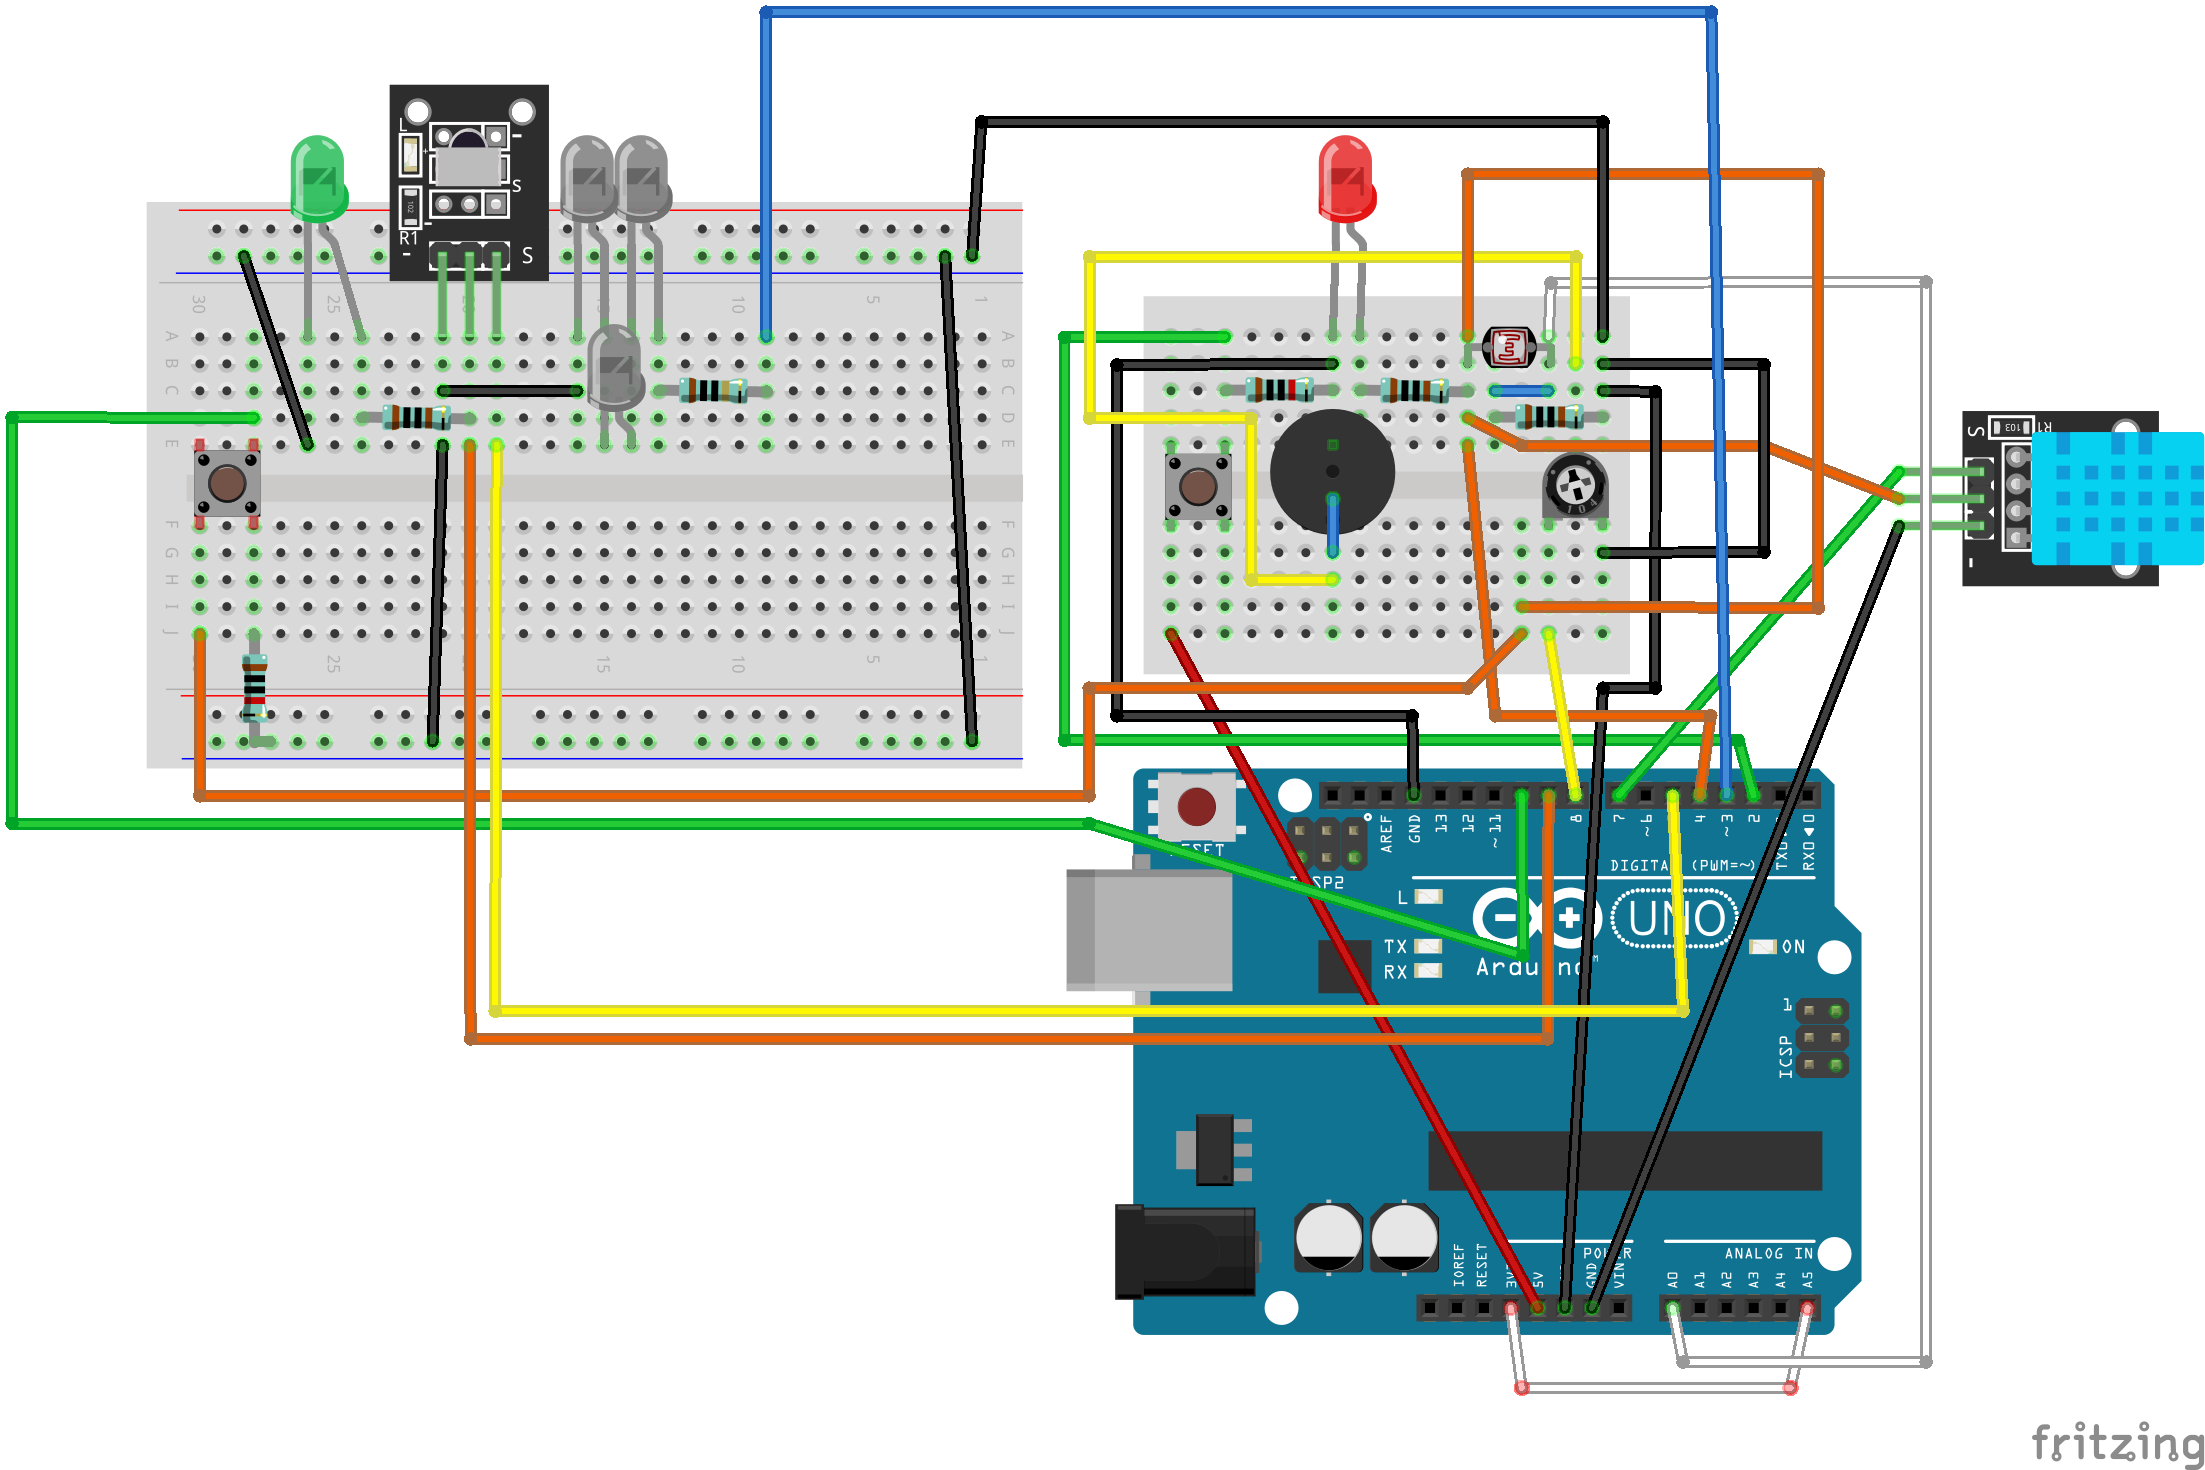
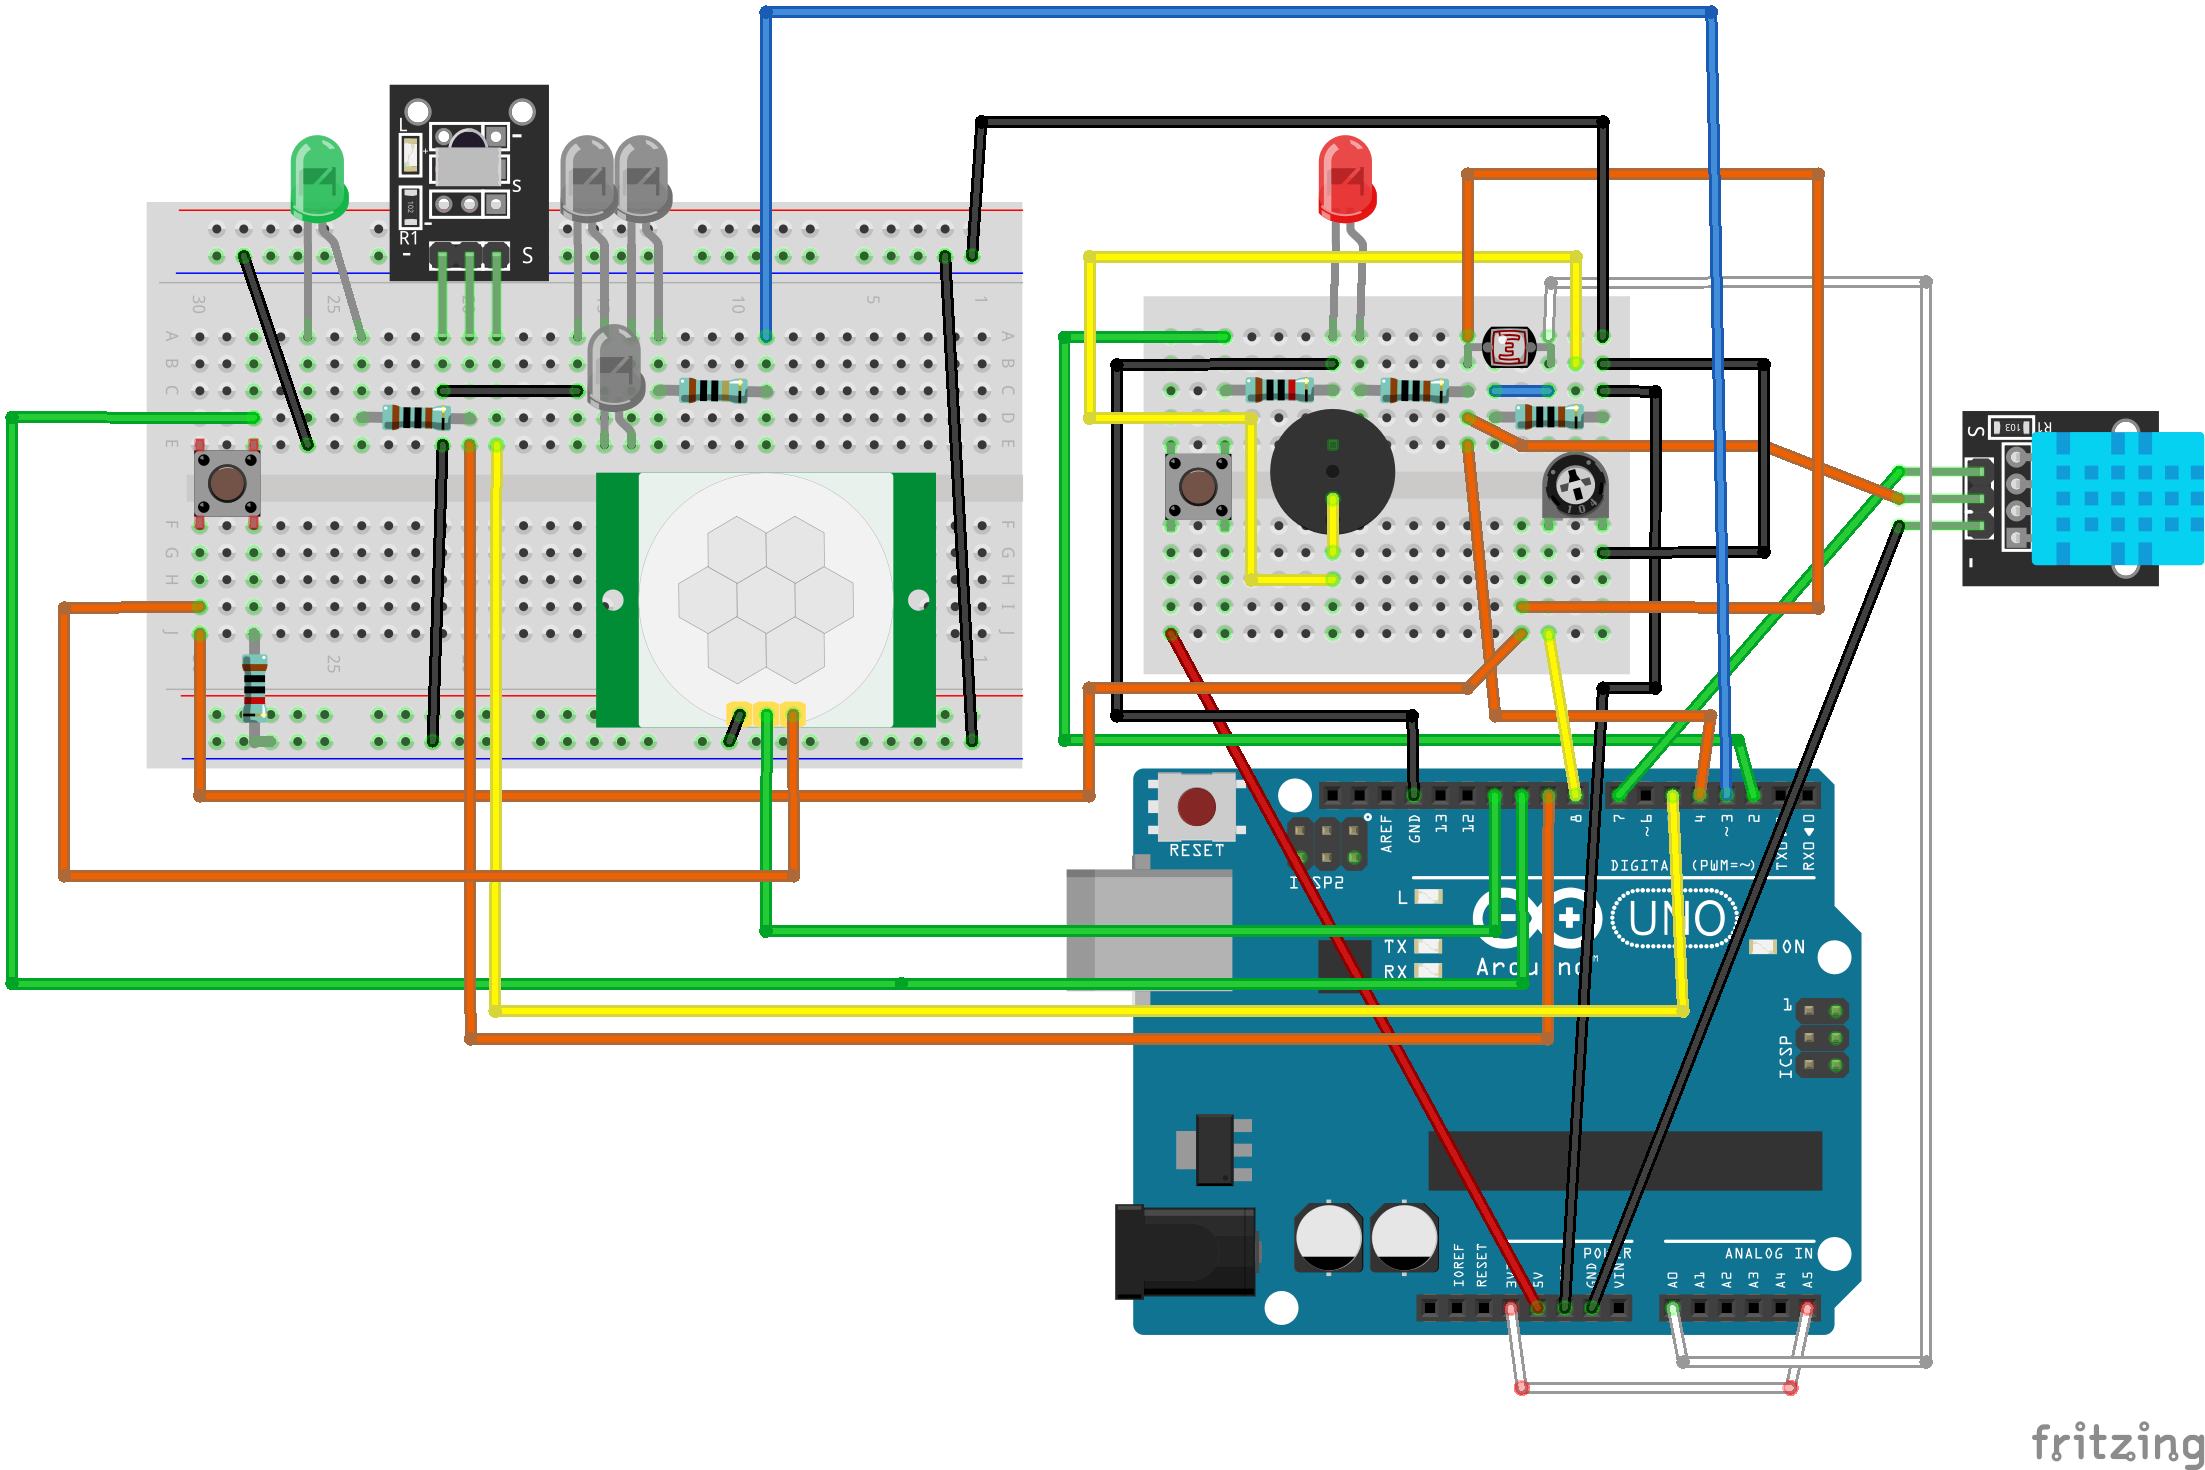
Added a PIR sensor and now enabled the automatic lighting control by default!

diff --git a/README.md b/README.md
@@ -8,7 +8,8 @@ Requirements
   * Mini Size Breadboard
   * Photoresistor (for illuminance meter)
   * DHT11 Temperature and Humidity Module (for thermometer and hygrometer)
-  * IR Reciever Module (for learning IR remote control codes of the lighting equipment)
+  * IR Reciever Module (for learning IR remote control codes of lighting equipments)
+  * HC SR501 PIR (for human sensing in the automatic control of lighting equipments)
   * Passive Buzzer (for the notification sound)
   * Potentiometer (for the volume of the Passive Buzzer)
   * Red LED (for the power lamp)
@@ -19,7 +20,7 @@ Requirements
   * 10Ω resister (for a series of IR LED x3)
   * many jumper wires
 * Half+ Size BreadBoard [BB-801](https://akizukidenshi.com/catalog/g/g105294/)
-* IR LED [OSI5LA5A33A-B](https://akizukidenshi.com/catalog/g/g113204/) x3 (for control of the brightness of lighting equipment; not implemented yet)
+* IR LED [OSI5LA5A33A-B](https://akizukidenshi.com/catalog/g/g113204/) x3 (for emittering IR codes in the automatic control of lighting equipments)
 
 Installation
 ============
